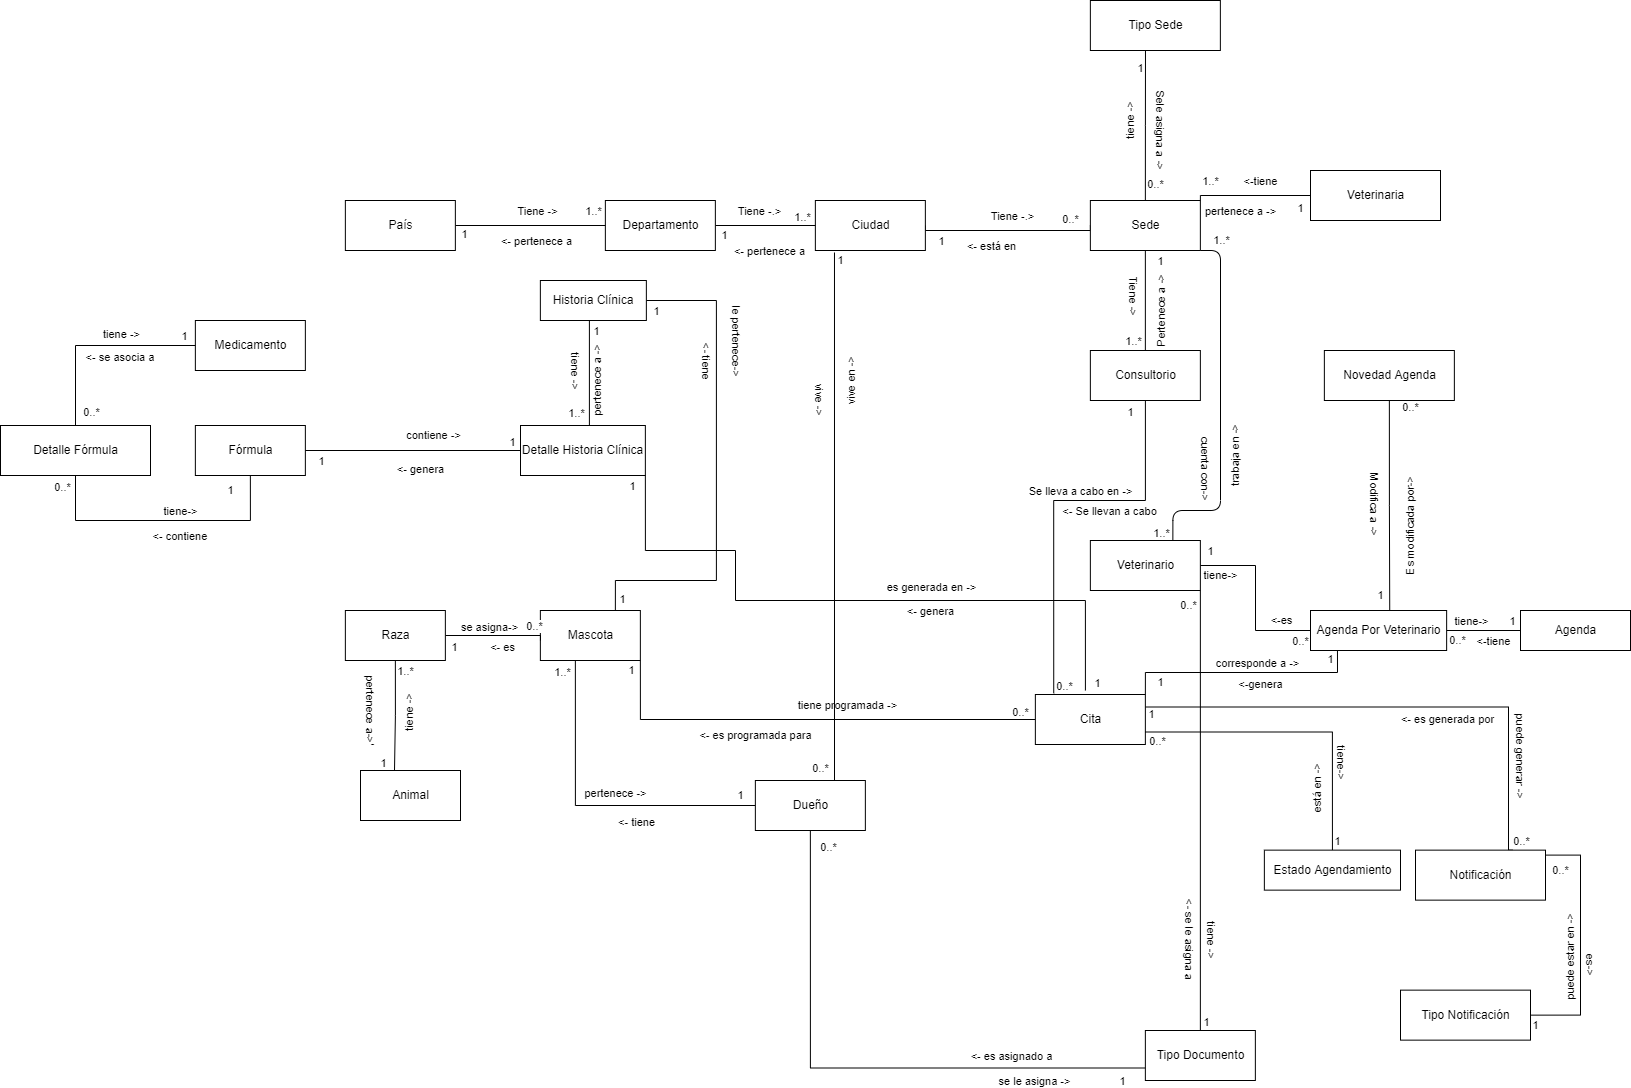
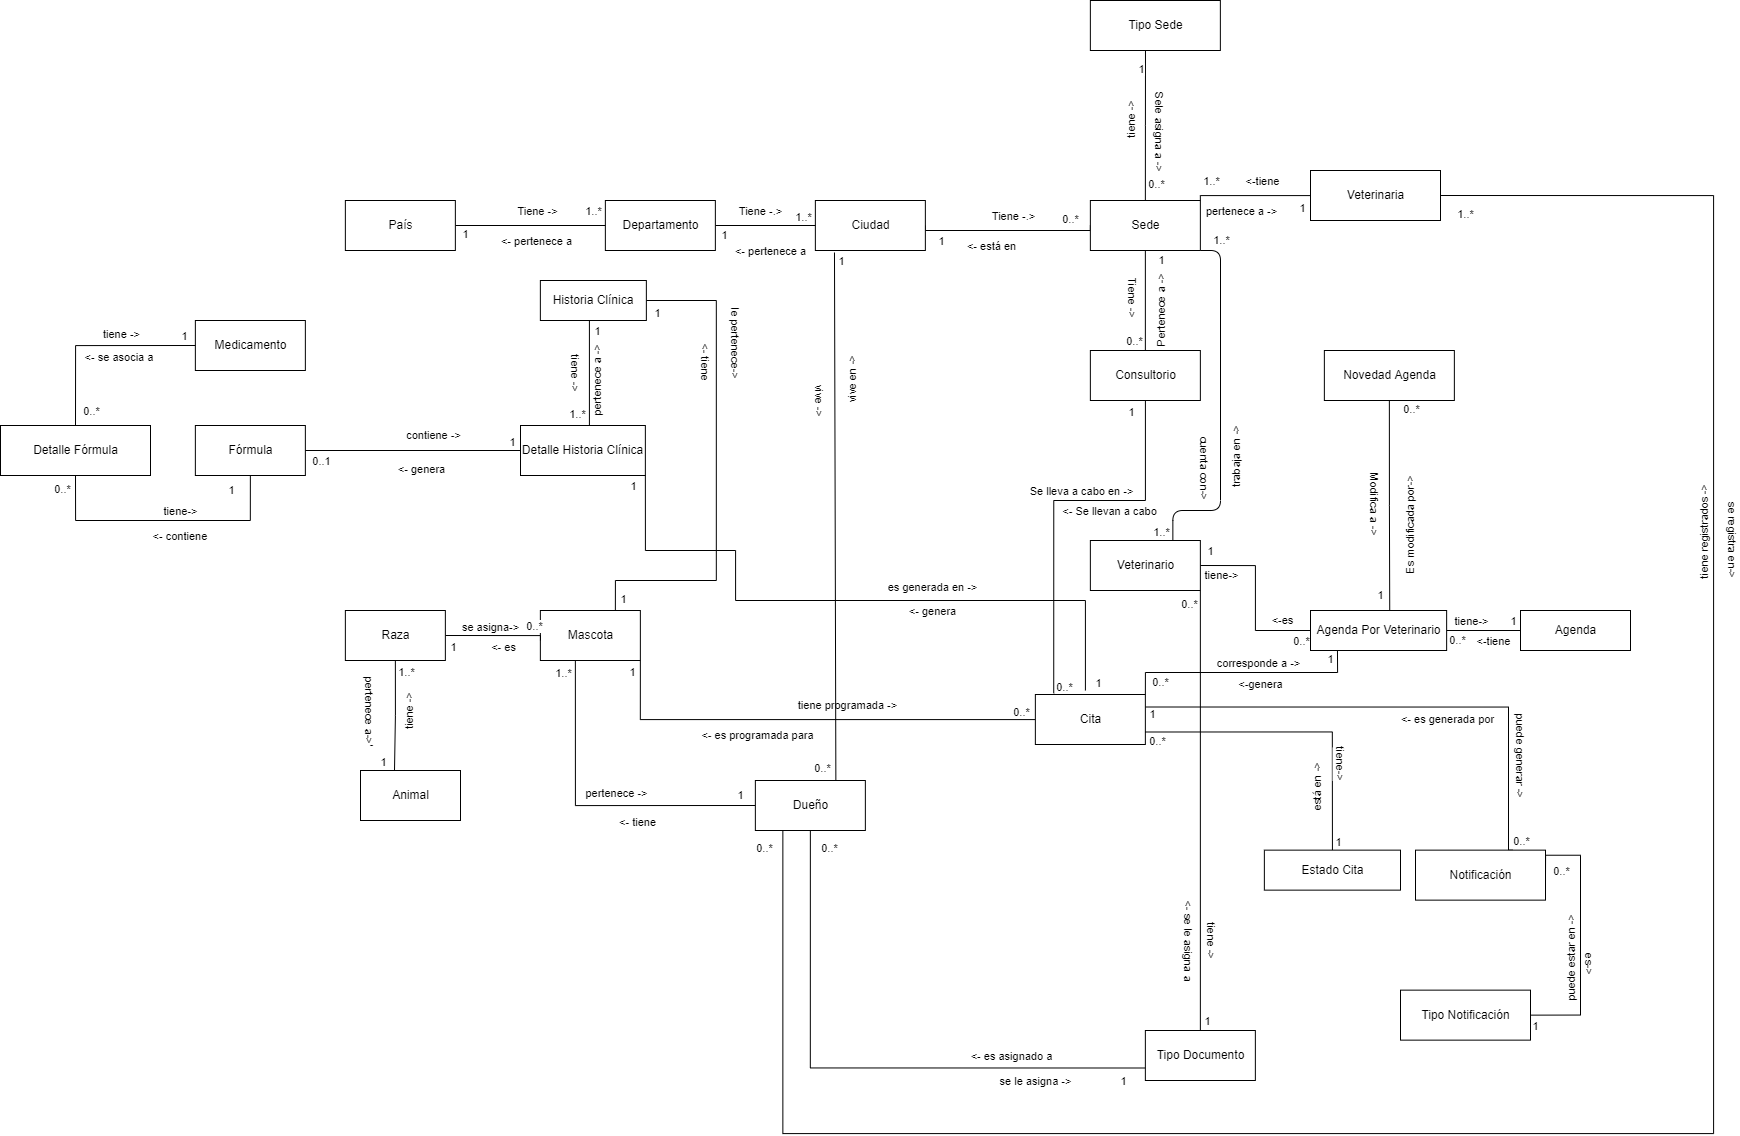
EscenariosDeCalidad

diff --git a/Modelado-Dominio.md b/Modelado-Dominio.md
@@ -1,94 +1,98 @@
 # MODELADO DE DOMINIO
 
-- **País**
+-**País**
 <br>
 Entidad que representa a cada uno de los países, donde están ubicados los departamentos que contienen las ciudades en donde están cada una de las veterinarias.
 <br>
-- **Departamento**
+-**Departamento**
 <br>
 Entidad que pertenece a un país determinado, y que representa a cada uno de los departamentos donde están ubicadas las ciudades que tienen sedes pertenecientes a cada una de las veterinarias.
 <br>
-- **Ciudad**
+-**Ciudad**
 <br>
 Entidad que pertenece a un departamento determinado, donde están ubicadas cada uno de las veterinarias.
 <br>
-- **Veterinaria**
+-**Veterinaria**
 <br>
 Entidad que brinda apoyo en los diferentes campos de la salud para el bienestar de una mascota.(La información más específica la tiene la sede)
 <br>
-- **Sede**
+-**Sede**
 <br>
 Entidad que representa una sucursal,la cual pertenece a una veterinaria.
 <br>
-- **Tipo sede**
+-**Tipo sede**
 <br>
 Entidad que representa una sede,la cual pertenece a la sede de una veterinaria.
 <br>
-- **Consultorio**
+-**Consultorio**
 <br>
 Entidad,generalmente de carácter privado, donde un veterinario atiende a los pacientes que asisten a él para realizar una consulta.
 <br>
-- **Tipo Identificación**
+-**Tipo Identificación**
 <br>
 Entidad que representa el tipo de documento que identifica a la persona.
 <br>
-- **Dueño**
+-**Dueño**
 <br>
 Entidad que representa al dueño de la mascota.
 <br>
-- **Veterinario**
+-**Veterinario**
 <br>
 Entidad que representa al veterinario que atiende a un paciente en una determinada veterinaria.
 <br>
-- **Animal**
+-**Animal**
 <br>
 Entidad que representa a cada uno de los animales que hacen parte de una raza determinada.
 <br>
-- **Raza**
+-**Raza**
 <br>
 Entidad que pertenece a un animal y que representa cada una de las razas que tiene una mascota.
 <br>
-- **Mascota**
+-**Mascota**
 <br>
 Entidad que representa el paciente que asiste a la cita,la cual pertenece a una raza.
 <br>
-- **Agenda**
+-**Agenda**
 <br>
 Entidad que contiene los horarios y fechas de disponibilidad para todos los veterinarios.
 <br>
-- **Agenda por Veterinario**
+-**Novedad Agenda**
+<br>
+Entidad que reprsenta una novedad en los horarios y fechas de disponibilidad de la agenda que tiene un veterinario.
+<br>
+-**Agenda por Veterinario**
 <br>
 Entidad que relaciona cada agenda con cada veterinario.
 <br>
-- **Cita**
+-**Cita**
 <br>
 Entidad que representa una cita dentro de la veterinaria
 <br>
-- **EStado Cita**
+-**EStado Cita**
 <br>
 Entidad que representa los estados que puede tener una cita, es decir la cita está programada,se canceló,etc.
 <br>
-- **Detalle Historia Clínica**
+-**Detalle Historia Clínica**
 <br>
 Entidad que representa la información general de diagnóstico y mediciones.
 <br>
-- **Historia Clínica**
+-**Historia Clínica**
 <br>
 Entidad que representa la información de la mascota y última revisión, y es el cúmulo de todos los detalles.
 <br>
-- **Fórmula**
+-**Fórmula**
 <br>
 Entidad que representa la información más general de una fórmula médica.
 <br>
-- **Detalle Fórmula**
+-**Detalle Fórmula**
 <br>
 Entidad que representa los medicamentos, cantidad e indicaciones de la fórmula.
 <br>
-- **Notificación**
+-**Notificación**
 <br>
 Entidad que representa una novedad de la cita.
 <br>
-- **Tipo Notificación**
+-**Tipo Notificación**
 <br>
 Entidad que representa una notificación,la cual pertenece a la notificación de una cita.
 

diff --git a/Drivers-Arquitectónicos.md b/Drivers-Arquitectónicos.md
@@ -32,19 +32,43 @@
 		<br>
 		![esc](Images/Atributos-Calidad/Disponibilidad/CaracterisiticasDisponibilidad.png)<br>
 		2.Escenarios
+		1. Escenarios de Calidad 1
+			![esc](Images/Atributos-Calidad/Disponibilidad/EsBaDisponibilidad1.png)
+			2. Escenarios de calidad 2
+			 ![esc](Images/Atributos-Calidad/Disponibilidad/EsBaDisponibilidad2.png)
+			3. Escenarios de Calidad 3
+			 ![esc](Images/Atributos-Calidad/Disponibilidad/EsBaDisponibilidad3.png)
+			4. Escenarios de calidad 4
+			 ![esc](Images/Atributos-Calidad/Disponibilidad/EsBaDisponibilidad4.png)
   - Rendimiento
 		<br>
 		1.Características
 		<br>
 		![esc](Images/Atributos-Calidad/Rendimiento/CaractersiticasRendimiento.png)<br>
 		2.Escenarios
+		1. Escenarios de Calidad 1
+			![esc](Images/Atributos-Calidad/Rendimiento/EsBaRendimiento1.png)
+			2. Escenarios de calidad 2
+			 ![esc](Images/Atributos-Calidad/Rendimiento/EsBaRendimiento2.png)
+			3. Escenarios de Calidad 3
+			 ![esc](Images/Atributos-Calidad/Rendimiento/EsBaRendimiento3.png)
+			4. Escenarios de calidad 4
+			 ![esc](Images/Atributos-Calidad/Rendimiento/EsBaRendimiento4.png)
   - Experiencia de Usuario
 		<br>
 		1.Características
 		<br>
 		![esc](Images/Atributos-Calidad/Ux/CaracterisitcasUx.png)
 		<br>
-		2.Escenarios		
+		2.Escenarios
+			1. Escenarios de Calidad 1
+			![esc](Images/Atributos-Calidad/Ux/EsBaUx1.png)
+			2. Escenarios de calidad 2
+			 ![esc](Images/Atributos-Calidad/Ux/EsBaUx2.png)
+			3. Escenarios de Calidad 3
+			 ![esc](Images/Atributos-Calidad/Ux/EsBaUx3.png)
+			4. Escenarios de calidad 4
+			 ![esc](Images/Atributos-Calidad/Ux/EsBaUx4.png)		
   - Seguridad
 		<br>
 		1.Características
@@ -52,7 +76,18 @@
 		![esc](Images/Atributos-Calidad/Seguridad/CaracterisitcasSeguridad.png)
 		<br>
 		2.Escenarios
-		<br>
-		<br>
+		2.Escenarios
+			1. Escenarios de Calidad 1
+			![esc](Images/Atributos-Calidad/Seguridad/EsBaSeguridad1.png)
+			2. Escenarios de calidad 2
+			 ![esc](Images/Atributos-Calidad/Seguridad/EsBaSeguridad2.png)
+			3. Escenarios de Calidad 3
+			 ![esc](Images/Atributos-Calidad/Seguridad/EsBaSeguridad3.png)
+			4. Escenarios de calidad 4
+			 ![esc](Images/Atributos-Calidad/Seguridad/EsBaSeguridad4.png)	
+			5. Escenarios de calidad 5
+			 ![esc](Images/Atributos-Calidad/Seguridad/EsBaSeguridad5.png)		
+			6. Escenarios de calidad 6
+			 ![esc](Images/Atributos-Calidad/Seguridad/EsBaSeguridad6.png)	
 		
   
